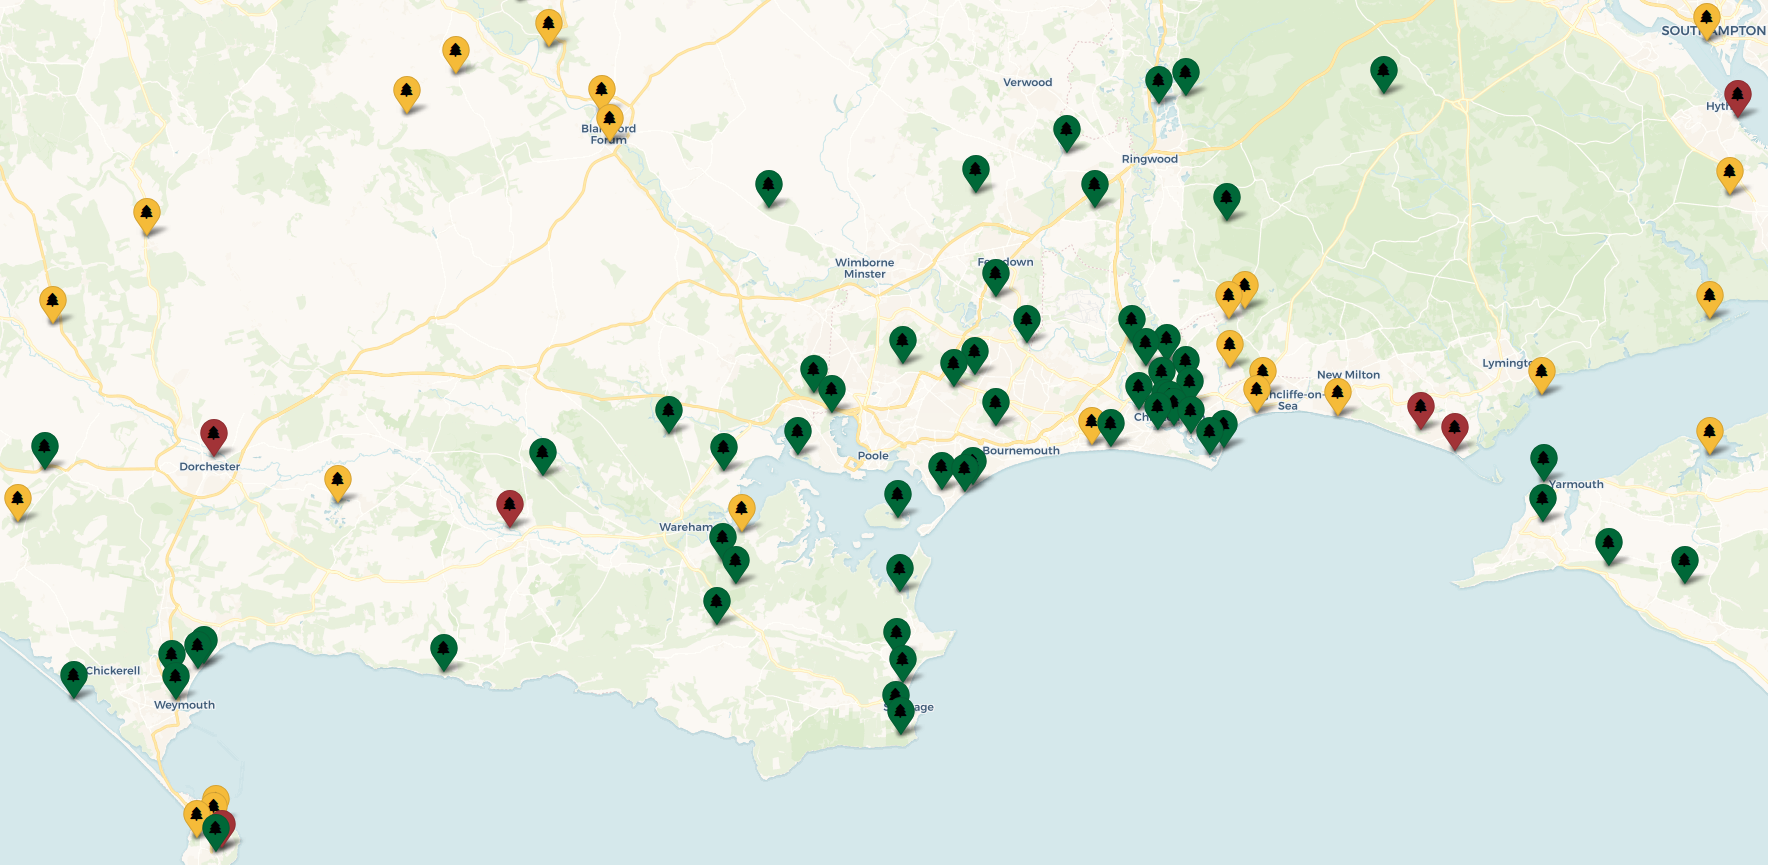
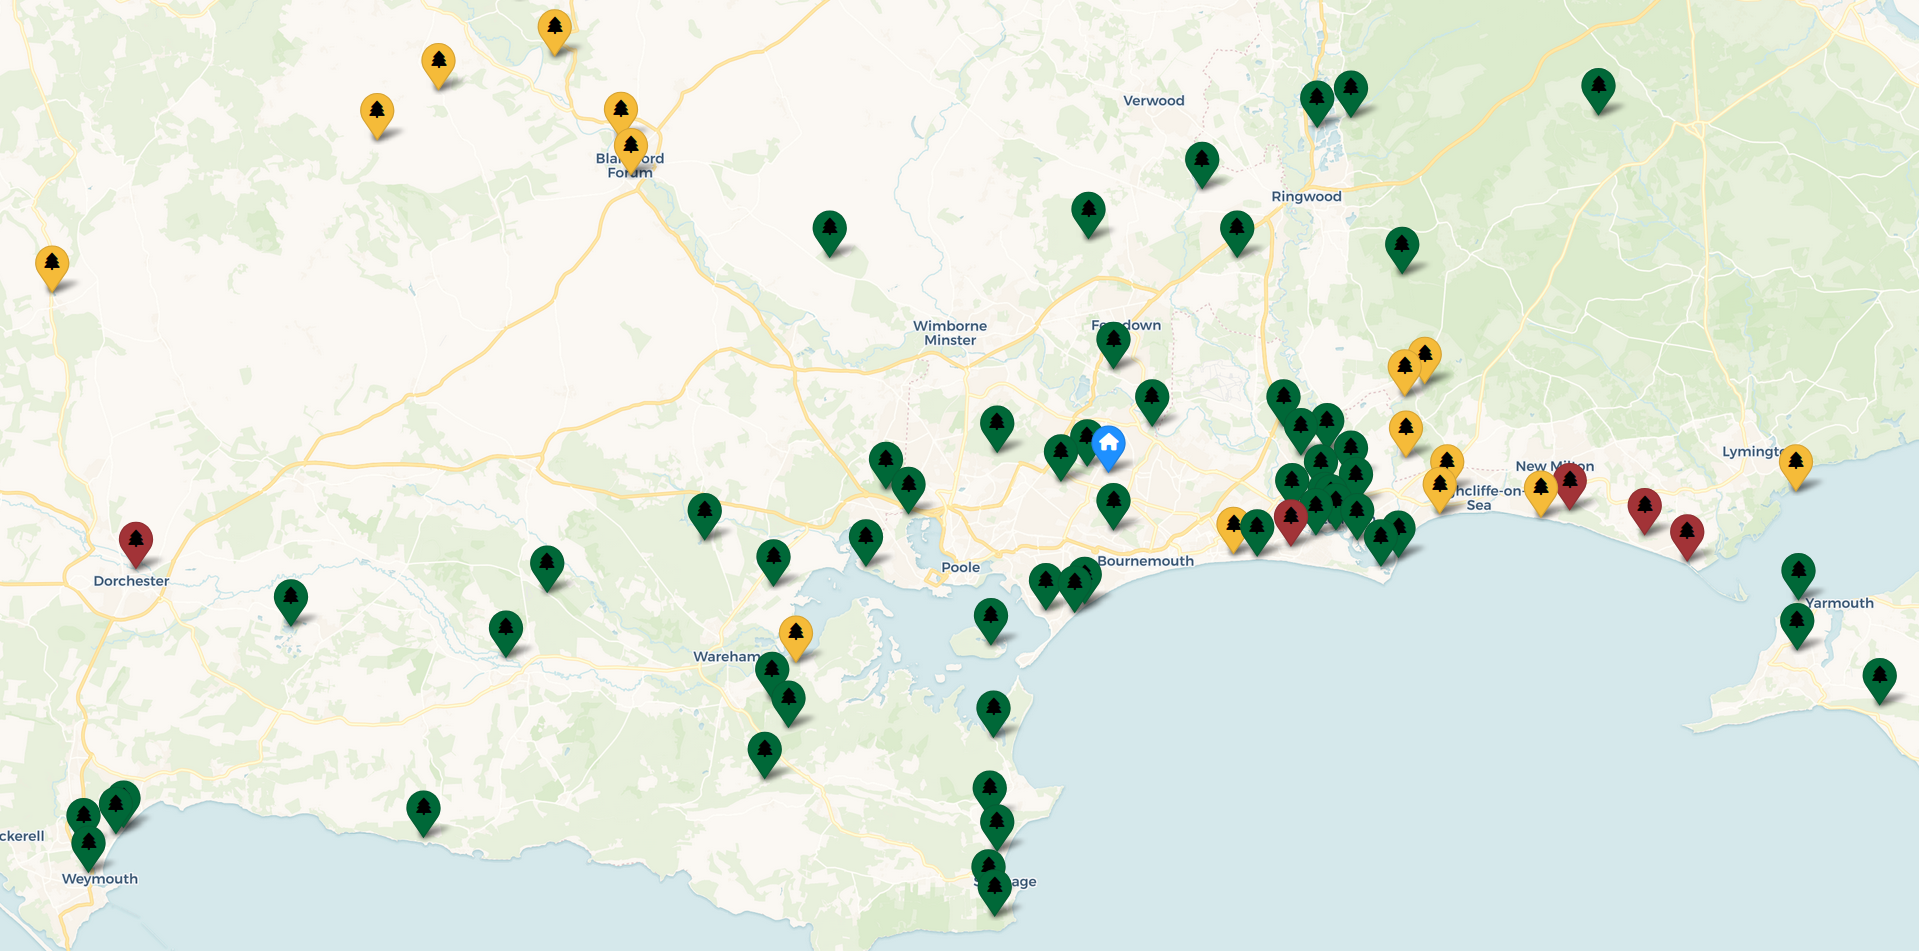
Blog post

diff --git a/_sass/_layout.scss b/_sass/_layout.scss
@@ -59,8 +59,8 @@ li.old-blog-archive-entry {
 
 /* Breakout wide section */
 div.breakout-full-width {
-  margin-left: calc(-100vw / 2 + 60ch / 2);
-  margin-right: calc(-100vw / 2 + 60ch / 2);
+  margin-left: calc(-100vw / 2 + 70ch / 2);
+  margin-right: calc(-100vw / 2 + 70ch / 2);
 }
 @include media-query($on-palm) {
   div.breakout-full-width {

diff --git a/_sass/_text.scss b/_sass/_text.scss
@@ -2,6 +2,7 @@ body {
   color: var(--text-color);
   -webkit-text-size-adjust: 100%;
   text-rendering: optimizelegibility;
+  letter-spacing: -0.03em;
 }
 
 p {

diff --git a/blog/_posts/2025-06-29-back-here-again-a-return-to-win-green.md b/blog/_posts/2025-06-29-back-here-again-a-return-to-win-green.md
@@ -1,0 +1,115 @@
+---
+layout: post
+title: "Back Here Again: A Return to Win Green, and a Year of Portable Amateur Radio in Review"
+date: 2025-06-29 00:00 +0000
+image: /img/blog/2025/06/win-4-small.jpg
+slug: back-here-again-a-return-to-win-green
+description: "Also featuring park revenge, and activating a sewer pipe."
+tags:
+  - ham-radio
+  - radio
+  - amateur-radio
+  - pota
+  - sota
+  - review
+---
+
+Win Green, the highest point in Cranbourne Chase. From the small copse of trees on top of this hill, you can see for miles in every direction; to Stourhead in the north, towards Southampton in the east, and to the south, all the way to home and the sea.
+
+<div class="breakout-full-width"><center><br/><img src="/img/blog/2025/06/win-2.jpg" alt="Panorama from the top of Win Green" style="width:100%"/></center><p><center><em>Panorama from the top of Win Green</em></center></p></div><br/>
+
+Unlike many of the other spots I've talked about during my amateur radio adventures, I have no particular childhood memories here, and little to say about the history of this particular corner of the world. It remains special to me though, above all other portable radio spots, because this was [where it all began](/blog/my-first-easiest-and-last-sota/).
+
+One year ago today was [OARC SOTA Day 2024](https://wiki.oarc.uk/oarc-sota-day-2024). We arrived on the hill late morning, as the sun baked the hilltop and Spitfires roared overhead. We unrolled our picnic blanket, set up an antenna, and tentatively took our first steps into the world of portable amateur radio.
+
+It was my first time using amateur radio equipment outside the house, my first Summit on the Air, my first Park on the Air, even my first time nervously trying to make a contact on HF voice. It was just meant to be excuse to test some equipment, really. But the first few QSOs came in, slowly but surely, and with them a rush of adrenaline; a joy at finding a new thing that I loved. I was hooked.
+
+Today, we stood there again, my logging assistant and I. The rush was still there, the anxiety and the joy.
+
+One year later, we were back for my third SOTA activation. Oh yes, and my *eighty-seventh* POTA.
+
+<div class="breakout-full-width"><center><br/><img src="/img/blog/2025/06/year-parks.png" alt="Map of most of the POTA parks I have activated in the last year" style="width:100%"/></center><p><center><em>Activated parks over the last year (green)</em></center></p></div><br/>
+
+And what a year it's been. These have been the highlights for me:
+
+* Becoming the [first activators of Brownsea Island](/pota-activation-report-brownsea-island/) after a flurry of desperate self-spotting to get the 10th QSO in the log
+* Getting [my first Transatlantic Park-to-Park QSO](/pota-activation-report-hengistbury-head/)
+* Creating a number of web applications to support outdoor radio, including [winning the RSGB Construction Competition](https://rsgb.org/main/construction-competition/) with [Field Spotter](https://fieldspotter.radio)
+* The unforgettable [Christchurch rove](/blog/christchurch-pota-rove-eight-parks-in-eight-hours/), where a civilised activation of a couple of town parks turned into a wet slog through salt marsh
+* The impeccably timed [RaDAR Rally](/blog/radar-rally-report-spring-2025/) that saw me deploy my radio kit eight times in four hours in a race around the forest
+* [Accidentally taking part in Airfields on the Air](/blog/pota-bota-activation-report-greenham-common/), working a bunker-to-bunker net as my antenna fell down around me
+* The desperate struggle for phone signal to kick off [the POTA 7-fer with its 90-minute pile-up](/blog/purbeck-pota-rove/)
+* And not forgetting [Jamboree on the Air](https://ianrenton.com/blog/jamboree-on-the-air-2024/), my reason for doing all this in the first place.
+
+More than anything else, I have enjoyed getting out there, to [places new](/blog/pota-activation-report-ham-common/) and [places I have known forever](/blog/pota-activation-report-the-river-stour/). I've seen hilltops and valleys and woods and fields that I never would have without this hobby. I've counted lizards on walls, come face-to-face with deer, been chased by swans, and had horses try to drink my tea. And I've come home to reflect, to write about it all, to share local history and childhood memories and QSO maps with an audience I don't thank enough.
+
+So thank you, all of you, for letting me share my adventures with you.
+
+![Logbook and FT-891 radio on a green and yellow polkadot picnic blanket](/img/blog/2025/06/win-4.jpg){: .center}
+*On today's activation, as it was a year ago: paper logging and the old polkadot picnic blanket.*
+
+In time-honoured tradition, here's my year in portable amateur radio, "by the numbers":
+
+* **64** separate locations across **47** days of adventures
+* **87** POTA activations in **69** unique parks
+* **29** WWFF activations in **18** unique parks
+* **7** Bunker activations, **3** Summits, **3** Castles and **1** Lighthouse
+* **89.3 miles** walked
+* **2047** total QSOs with **1251** unique callsigns
+* **323** grid squares worked
+* Furthest DX: **7678 miles** with R Purnawi, YB3RPS (Indonesia)
+* Closest DX: Around **400 metres** with John, M6EAM (Christchurch, UK)
+* Top three hunters, by QSO count: **Thomas, SM3NRY (27)**, John, M6EAM (24) and Larry, F5PYI (21)
+* Longest walk: **12.1 miles** on the [West Wight Rove](/blog/west-wight-pota-rove/)
+* Most references in a day: **15** on the [Purbeck Rove](/blog/purbeck-pota-rove/)
+* Most QSOs in a day: **165** on the [Christchurch Rove](/blog/christchurch-pota-rove-eight-parks-in-eight-hours/)
+* Most QSOs in a park: **101** for the [WWFF 12.5 Year Birthday competition](/blog/pota-activation-report-holt-heath/)
+
+But back to Win Green, and back to today.
+
+![Trig point and Win Green's characteristic clump of trees in the background](/img/blog/2025/06/win-1.jpg){: .center}
+*The trig point and the coppice at Win Green*
+
+Win Green remains SOTA summit [G/SC-008](https://sotl.as/summits/G/SC-008) but in the past 12 months has also been added to POTA as its own entity, so we would be activating [GB-4517](https://pota.app/#/park/GB-4517) as well as Cranborne Chase itself, [GB-0051](https://pota.app/#/park/GB-0051) for POTA and [GFF-0249](https://wwff.co/directory/?showRef=GFF-0249) for WWFF.
+
+Before we'd even pulled up in the car park, I was eyeballing a large 4x4 vehicle with no less than 5 antennas on top, including what looked like two Ampro HF whips. The driver had the windows rolled up, and I didn't fancy disturbing him, so we let him be and headed off towards the hill. But we'd gone a whole ten metres before someone else got out of their car, looked at us and said "bands have been rubbish lately, haven't they?"
+
+I think at that point, there may have been more ham radio operators at Win Green than non-ham radio operators.
+
+This turned out to be David, G4YVM, and after briefly comiserating about band conditions then, we also met him later up on the hillside and had a longer chat about antennas and learning CW.
+
+Just like last year, we were using the FT-891 and Sotabeams linked inverted-V dipole, along with an HT for any 2m FM contacts that might happen. I left the HT on but didn't hear a lot of activity on the 2m calling channel. In the end, I didn't bother to make any 2m calls of my own as we were far too busy with the HF kit, but a variety of beeps and bloops let me know that APRS was doing well up on the hill.
+
+![Inverted-V dipole antenna in long grass with a bright blue sky above](/img/blog/2025/06/win-3.jpg){: .center}
+*Why would we ever operate from home, when we can have this?*
+
+We started the activation on the 20m band, hoping to get some [ARRL Field Day](http://www.arrl.org/field-day) action, but sadly we had no North American callers, and when we hunted a few it seemed that we weren't being heard. Nevertheless our CQ calls netted a pile-up of 31 callers around Europe, until at last a few minutes' break gave us the chance to switch to 40m.
+
+Again, we blitzed through that, getting another 33 in the log over the course of the next half hour. Honestly, we could have gone on much longer, as there were still plenty of other activator spots to hunt and I'm sure a few more CQ calls would have resulted in more interest. However, we'd had a good hour and a half in the sun, done more than enough to activate for SOTA, POTA and WWFF, and done exactly what we'd set out to do&mdash;return to Win Green a year on, wiser and better.
+
+![Map showing lots of coloured markers](/img/blog/2025/06/win-map.png){: .center}
+*Map of today's contacts*
+
+So what does the next year hold in store for us?
+
+Over the next few months, I'm hoping to do:
+
+* A *kite portable* activation with Stu M7UTS, on a windy hill somewhere in Dorset
+* A six-spot, three-operator rove around Portland, including the 11-reference spot from the [Worked Everything, Everywhere, All At Once Award](/projects/worked-everything-award/) and continuing down to Portland Bill for [International Lighthouse and Lightship Weekend](https://illw.net/).
+* Another 10-park rove, this time 10 individual parks, all on foot in a 10-mile round walk
+* And another successful Jamboree on the Air with the Scouts.
+
+Further afield, one day I'd like to do:
+
+* My first overseas activation
+* My first Maritime Mobile activation
+* Visits to Plymouth and Sandown to reach the [Worked Everything, Everywhere, All At Once Award's](/projects/worked-everything-award/) 21-reference spot and a 6-program spot
+* Hiking the South Downs, taking in 15 POTA references in 10 days.
+
+Fingers crossed, a long and exciting future of outdoor radio adventures awaits.
+
+<div class="breakout-full-width"><center><br/><img src="/img/blog/2025/06/year-map.png" alt="Much larger map showing lots more coloured markers" style="width:100%"/></center><p><center><em>Map of all my portable contacts from the last 12 months</em></center></p></div><br/>
+
+I'll finish as I always do, with a huge thank-you to all my contacts over the past year&mdash;all 1251 of you.  None of this would have been possible without you being there, from Alaska to Indonesia to just down the road, sat by a radio taking my call. Thank you so much.
+
+Here's to another year!
